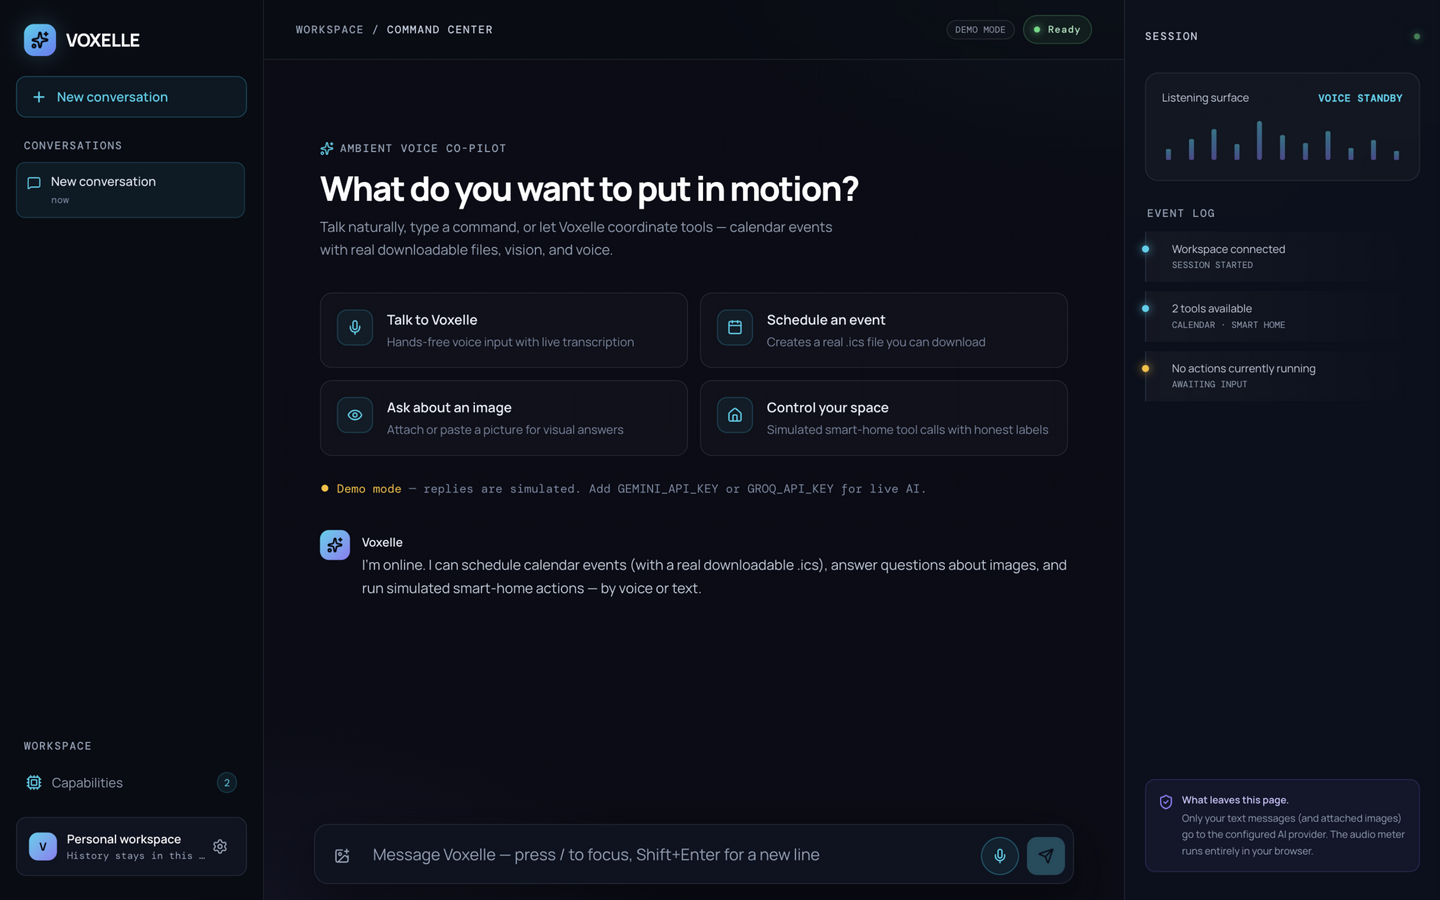
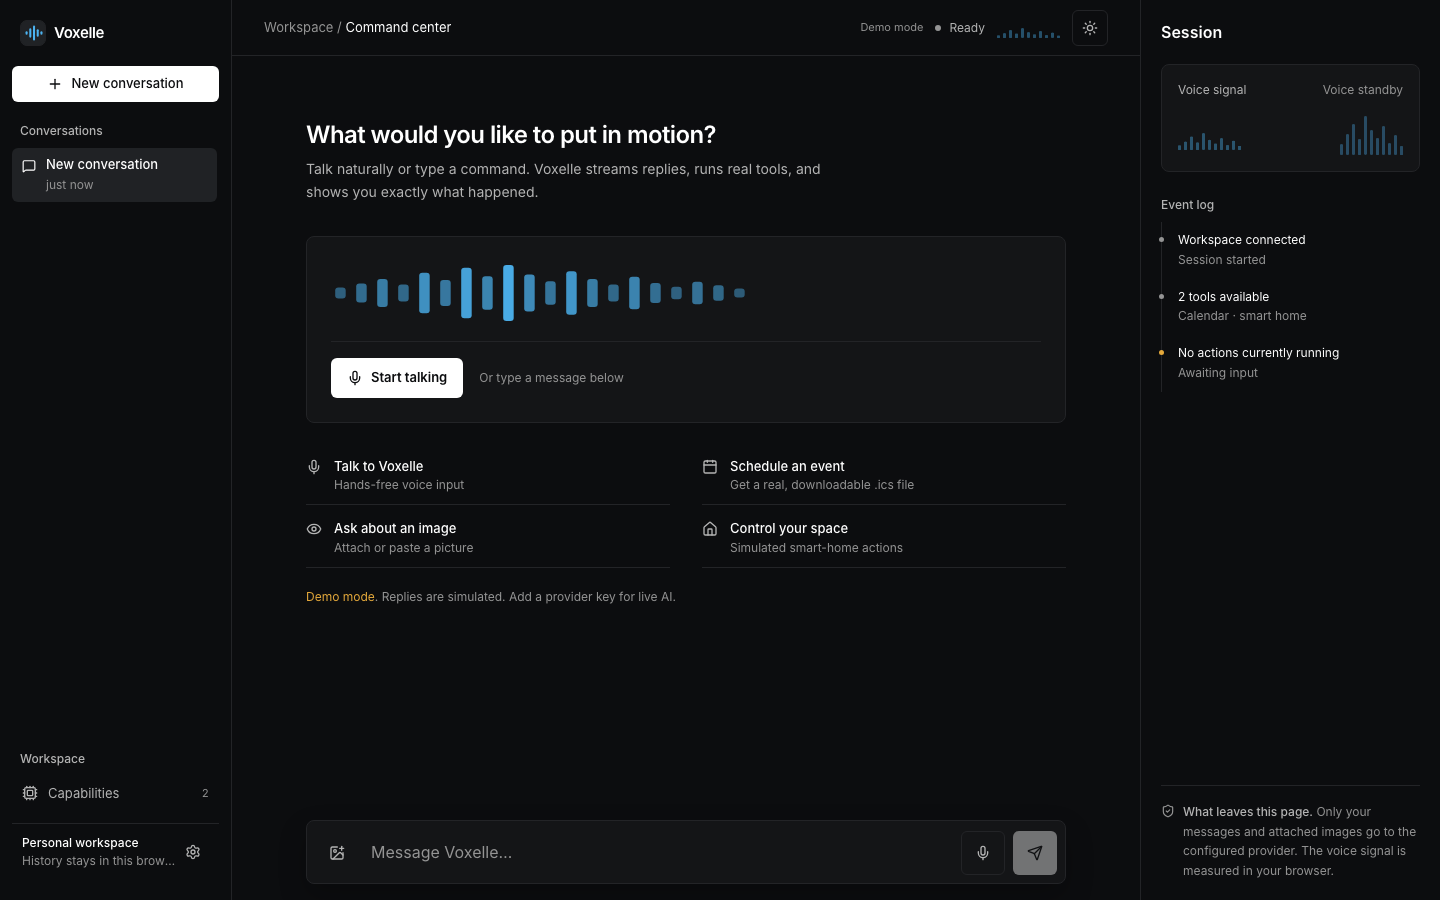
docs(ui): refresh README and screenshots for the redesign
Update the intro and tech-stack notes to describe the three-layer token
system, true-neutral dark + light themes, the single signal accent and the
waveform signature. Correct the telemetry subtitle humanizer to sentence
case (only the first letter capitalized). Regenerate both README screenshots
at 1440x900 from the production build so they show the new empty state and
the real tool-execution flow, including the downloadable .ics card.

diff --git a/src/components/ActivityRail.tsx b/src/components/ActivityRail.tsx
@@ -25,9 +25,8 @@ const RAIL_WIDTH = 300;
 function humanizeSubtitle(value: string): string {
   const isShouty = /[A-Z]/.test(value) && !/[a-z]/.test(value) && !value.includes('/');
   if (!isShouty) return value;
-  return value
-    .toLowerCase()
-    .replace(/(^|[\s·])([a-z])/g, (_m, lead: string, ch: string) => lead + ch.toUpperCase());
+  const lower = value.toLowerCase();
+  return lower.charAt(0).toUpperCase() + lower.slice(1);
 }
 
 function ActivityRail({

diff --git a/README.md b/README.md
@@ -1,6 +1,8 @@
 # Voxelle — Voice-First AI Assistant & Workspace
 
-Voxelle is a voice-first, multimodal AI assistant built on **Next.js 16 (App Router)** and **React 19**. It streams replies token-by-token over NDJSON, executes tool calls **on the server** (including a real, downloadable `.ics` calendar file), feeds results back to the model, and talks back through browser speech synthesis — all wrapped in a refined dark interface with an honest telemetry panel.
+Voxelle is a voice-first, multimodal AI assistant built on **Next.js 16 (App Router)** and **React 19**. It streams replies token-by-token over NDJSON, executes tool calls **on the server** (including a real, downloadable `.ics` calendar file), feeds results back to the model, and talks back through browser speech synthesis — wrapped in a flat, token-driven interface with an honest telemetry panel.
+
+The UI uses a three-layer design-token system (primitive → semantic → component), a true-neutral dark theme with a light-mode toggle, and a single signal-blue accent reserved for data and live state. The product's own waveform is the signature element: a persistent signal spine driven by the real microphone analyser. See [`src/app/globals.css`](src/app/globals.css) for tokens and [`src/components/design/`](src/components/design) for the small design primitives.
 
 No API key? It runs in **demo mode** with the same streaming pipeline and the same server-side tool execution.
 
@@ -77,7 +79,7 @@ Design notes worth reading in the source:
 ## 🛠 Tech stack
 
 - **Next.js 16** (App Router, Turbopack), **React 19**, **TypeScript 5** (strict)
-- **Tailwind CSS v4** design tokens · **Framer Motion 12** · **lucide-react**
+- **Tailwind CSS v4** design tokens · **Framer Motion 12** · **lucide-react** · **Inter** (`next/font`)
 - **Web Speech API** (STT/TTS) · **Web Audio API** (analyser)
 - Google Generative Language API · Groq Cloud API
 - Tests: native **Node.js test runner** (no test framework dependency)
